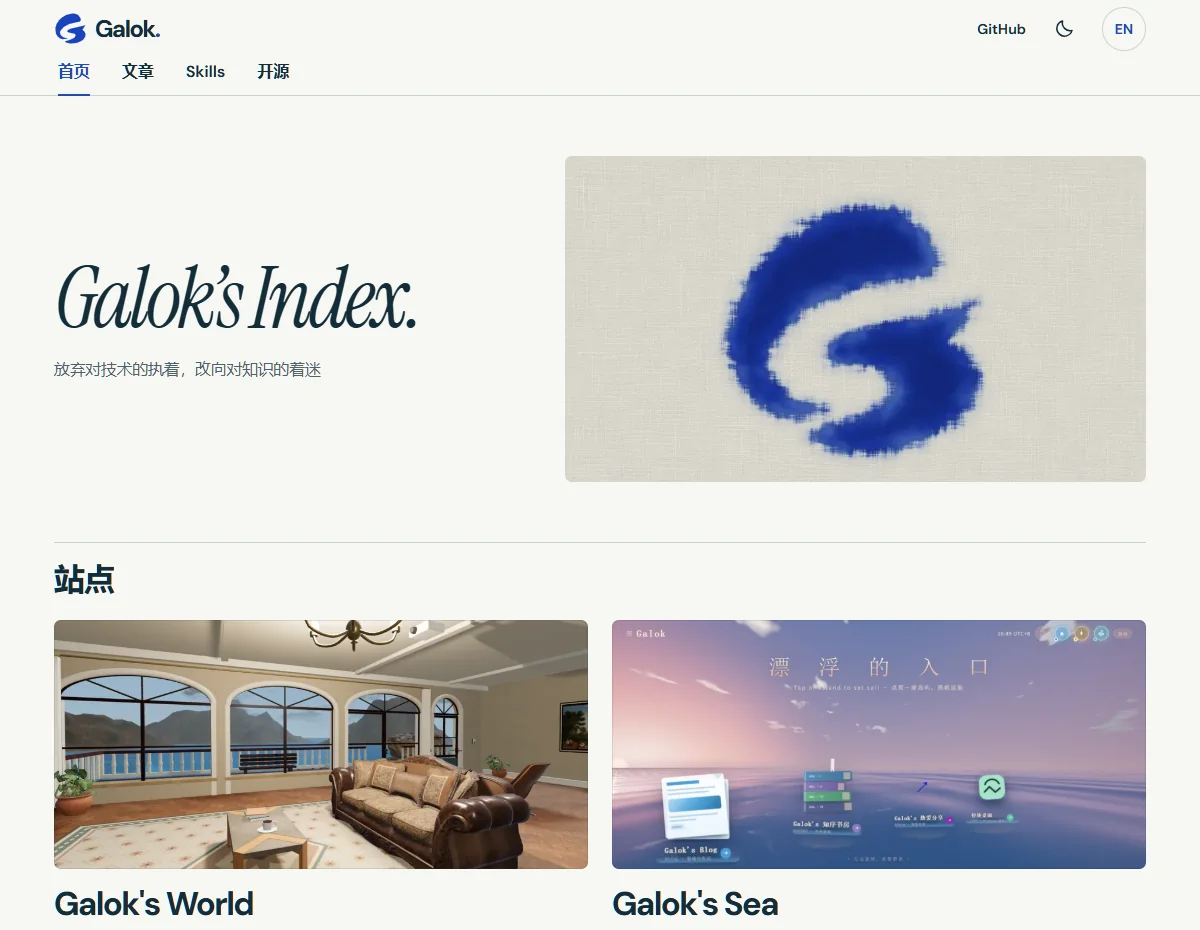
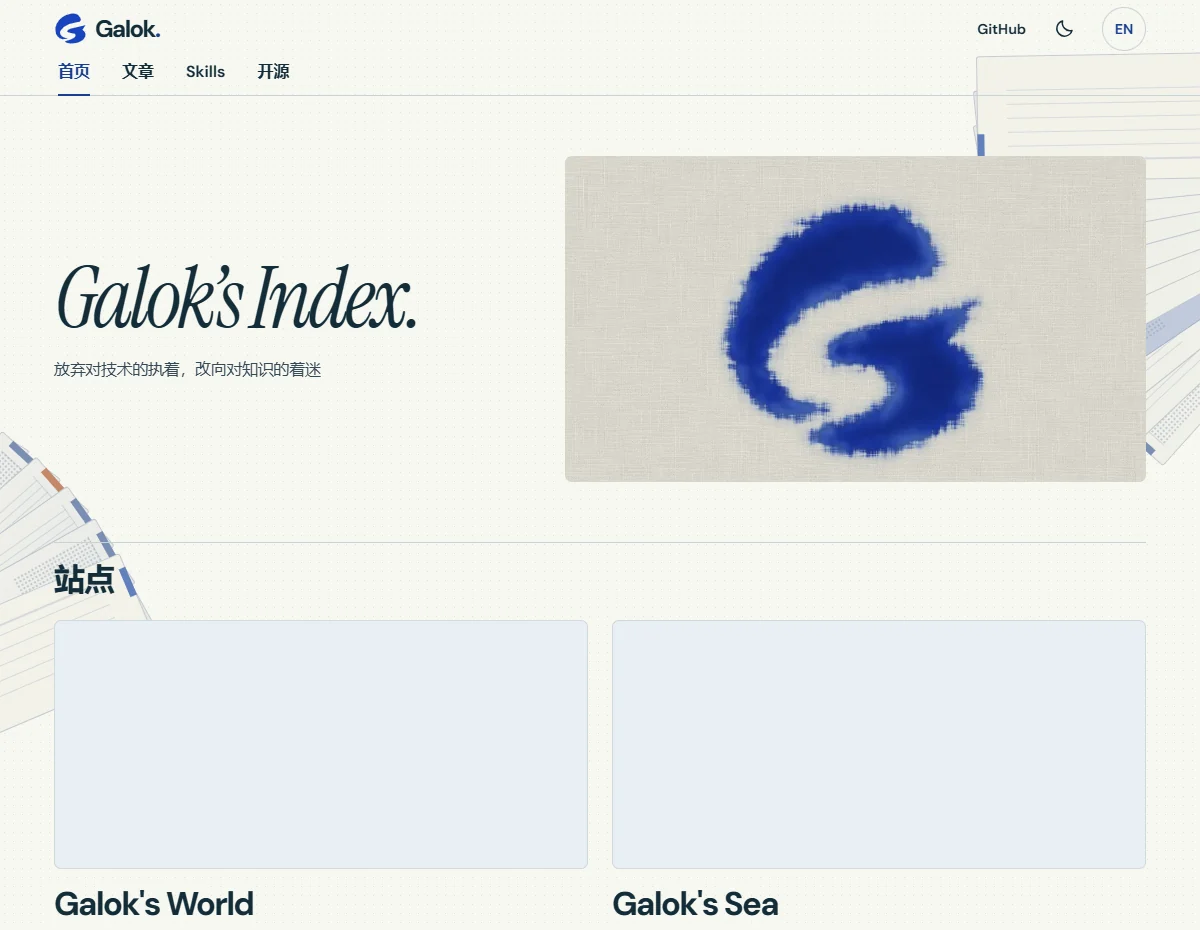
Frame the homepage with interactive paper index cards

diff --git a/home/index-paper.css b/home/index-paper.css
@@ -1,0 +1,117 @@
+/* Two fanned decks of index slips. Each sheet pivots around the same binding. */
+.index-paper {
+  --stock: #f7f7f1;
+  --grain: #7b7e8c25;
+  --leaf: #f1f1e9;
+  --shade: #c9d1e0;
+  --edge-ink: #6b7a9860;
+  --ink-rule: #5f729839;
+  --tab: #677da8;
+  --warm-tab: #bd7651;
+  --blue-tab: #496bb5;
+  position: fixed;
+  inset: 0;
+  z-index: -1;
+  overflow: hidden;
+  pointer-events: none;
+  background-color: var(--stock);
+  background-image: radial-gradient(circle, var(--grain) .55px, transparent .9px);
+  background-size: 9px 9px;
+}
+:root[data-theme="dark"] .index-paper {
+  --stock: #18202c;
+  --grain: #a6b5cc25;
+  --leaf: #252f40;
+  --shade: #354664;
+  --edge-ink: #a7badb49;
+  --ink-rule: #adbed532;
+  --tab: #8297be;
+  --warm-tab: #cc906e;
+  --blue-tab: #8ba6dc;
+}
+.paper-fan {
+  --open: 0deg;
+  --length: clamp(325px, 33vw, 570px);
+  --breadth: calc(var(--length) * .30);
+  --heading: -84deg;
+  --step: 6.1deg;
+  position: absolute;
+  width: 0;
+  height: 0;
+  left: calc(var(--length) * -.56);
+  top: 82%;
+  opacity: .86;
+}
+.paper-fan + .paper-fan {
+  --heading: 132deg;
+  --step: 4.7deg;
+  --length: clamp(380px, 35vw, 660px);
+  left: auto;
+  right: calc(var(--length) * -.47);
+  top: 12%;
+}
+.paper-slip {
+  --tint: calc(12% + var(--sheet) * 3%);
+  position: absolute;
+  top: calc(var(--breadth) * -.5);
+  width: var(--length);
+  height: var(--breadth);
+  transform-origin: 0 50%;
+  transform: rotate(calc(var(--heading) + var(--sheet) * var(--step) + (var(--sheet) - 4) * var(--open)));
+  border: 1px solid var(--edge-ink);
+  border-radius: 3px;
+  background-color: var(--leaf);
+  background-image: linear-gradient(155deg, var(--leaf) 24%, color-mix(in srgb, var(--shade) var(--tint), var(--leaf)) 92%);
+}
+/* Print on the exposed ends: a tab, then the fine ruling of a catalogue slip. */
+.paper-slip::before {
+  content: "";
+  position: absolute;
+  inset: 10% 3.5% 10% auto;
+  width: 22%;
+  border-inline-end: 1px solid var(--ink-rule);
+  background: repeating-linear-gradient(0deg, transparent 0 7px, var(--ink-rule) 7px 8px);
+}
+.paper-slip::after {
+  content: "";
+  position: absolute;
+  inset: 12% -1px auto auto;
+  width: 1.7%;
+  height: 26%;
+  background: var(--tab);
+}
+.paper-slip:nth-child(3n + 1)::before {
+  background: radial-gradient(circle, var(--edge-ink) .7px, transparent 1px) 0 0 / 4px 4px;
+}
+.paper-slip:nth-child(3n + 2)::after { background: var(--blue-tab); }
+.paper-slip:nth-child(5n + 3)::after { background: var(--warm-tab); }
+.paper-slip:nth-child(4) { background: color-mix(in srgb, var(--leaf) 66%, var(--blue-tab)); }
+.paper-slip:last-child {
+  background: var(--leaf);
+}
+.paper-slip:last-child::before {
+  inset: 15% 7% 16% auto;
+  width: 49%;
+  border-block-start: 2px solid var(--ink-rule);
+  border-inline-end: 0;
+  background: repeating-linear-gradient(0deg, transparent 0 13px, var(--ink-rule) 13px 14px);
+}
+@media (max-width: 700px) {
+  .paper-fan {
+    --length: clamp(215px, 49vw, 320px);
+    left: calc(var(--length) * -.71);
+    top: 71%;
+    opacity: .72;
+  }
+  .paper-fan + .paper-fan {
+    --length: clamp(240px, 53vw, 360px);
+    right: calc(var(--length) * -.60);
+    top: 16%;
+  }
+}
+@media (prefers-reduced-motion: no-preference) {
+  .paper-slip { transition: transform 380ms cubic-bezier(.23,.8,.25,1); }
+}
+@media print, (forced-colors: active) {
+  .index-paper { display: none; }
+}

diff --git a/home/index-paper.js b/home/index-paper.js
@@ -1,0 +1,71 @@
+// Only the slips close to the pointer fan open. Let CSS settle them between inputs.
+const fans = [...document.querySelectorAll('.paper-fan')];
+const motion = matchMedia('(prefers-reduced-motion: no-preference)');
+const still = matchMedia('(prefers-reduced-data: reduce), (forced-colors: active), print');
+let centers = [];
+let point;
+let frame = 0;
+let release = 0;
+
+function measure() {
+  centers = fans.map(fan => {
+    const {left, top} = fan.getBoundingClientRect();
+    const length = fan.firstElementChild.offsetWidth;
+    const style = getComputedStyle(fan);
+    const middle = parseFloat(style.getPropertyValue('--heading')) + 5 * parseFloat(style.getPropertyValue('--step'));
+    const angle = middle * Math.PI / 180;
+    return {
+      x: left + Math.cos(angle) * length * .77,
+      y: top + Math.sin(angle) * length * .77,
+      radius: length * .92
+    };
+  });
+}
+
+function openNearby() {
+  frame = 0;
+  fans.forEach((fan, i) => {
+    const {x, y, radius} = centers[i];
+    const proximity = Math.max(0, 1 - Math.hypot(point.x - x, point.y - y) / radius);
+    const angle = (proximity * 2.4).toFixed(1) + 'deg';
+    if (angle !== fan.style.getPropertyValue('--open')) fan.style.setProperty('--open', angle);
+  });
+}
+
+function track(event) {
+  if (!motion.matches || still.matches || document.hidden) return;
+  point = {x: event.clientX, y: event.clientY};
+  if (!frame) frame = requestAnimationFrame(openNearby);
+}
+
+function rest() {
+  cancelAnimationFrame(frame);
+  clearTimeout(release);
+  frame = 0;
+  fans.forEach(fan => fan.style.removeProperty('--open'));
+}
+
+function resize() {
+  rest();
+  measure();
+}
+
+measure();
+addEventListener('resize', resize);
+addEventListener('pointermove', event => {
+  if (event.pointerType !== 'touch') track(event);
+}, {passive: true});
+addEventListener('pointerdown', event => {
+  if (event.pointerType === 'touch') {
+    track(event);
+    clearTimeout(release);
+    release = setTimeout(rest, 450);
+  }
+}, {passive: true});
+document.addEventListener('pointerout', event => {
+  if (!event.relatedTarget && event.pointerType !== 'touch') rest();
+});
+addEventListener('blur', rest);
+document.addEventListener('visibilitychange', rest);
+motion.addEventListener('change', rest);
+still.addEventListener('change', rest);

diff --git a/_layouts/index-shell.html b/_layouts/index-shell.html
@@ -13,7 +13,12 @@
   <link rel="manifest" href="/site.webmanifest">
   <script>{% include site-theme.js %}</script>
   <link rel="stylesheet" href="/home/index.css?v=tidepool-2">
+  {% if page.section == 'sites' %}
+  <link rel="stylesheet" href="/home/index-paper.css">
+  <script type="module" src="/home/index-paper.js" fetchpriority="low"></script>
+  {% else %}
   <script type="module" src="/home/tides.js?v=tidepool-2" fetchpriority="low"></script>
+  {% endif %}
   {% if page.section == 'skills' %}
   <link rel="stylesheet" href="/skills/library.css?v=reader-2">
   <script type="module" src="/skills/library.js?v=guide-language"></script>
@@ -35,7 +40,17 @@
   {% endif %}
 </head>
 <body id="top"{% if page.skill_collection %} data-collection="{{ page.skill_collection }}"{% endif %}>
+  {% if page.section == 'sites' %}
+  <div class="index-paper" aria-hidden="true">
+    {% for side in (1..2) %}
+    <div class="paper-fan">
+      {% for sheet in (0..10) %}<span class="paper-slip" style="--sheet: {{ sheet }}"></span>{% endfor %}
+    </div>
+    {% endfor %}
+  </div>
+  {% else %}
   <canvas class="tidal-paper{% if page.layout == 'reading' %} tidal-paper--reading{% endif %}" aria-hidden="true"></canvas>
+  {% endif %}
   <a class="skip" href="#main" data-en="Skip to content">跳到正文</a>
   <header class="masthead">
     <div class="wrap headline">
